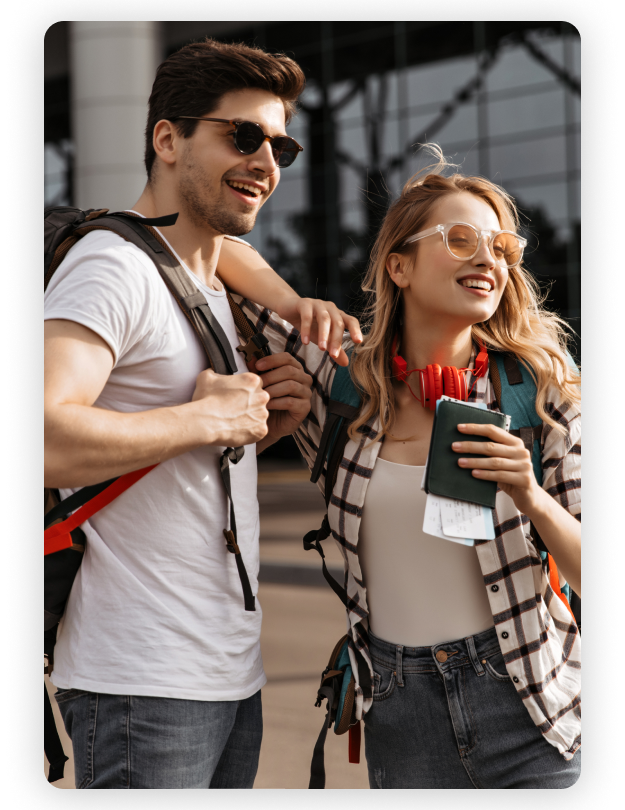
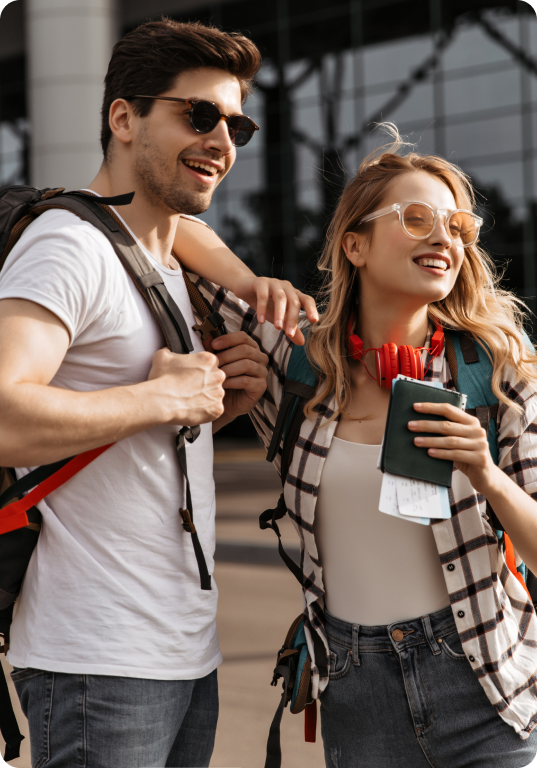
arreglo margenes howitworks

diff --git a/viajes-app/src/pages/HowItWorks.tsx b/viajes-app/src/pages/HowItWorks.tsx
@@ -10,11 +10,13 @@ const HowItWorks = () => {
   return (
     <div className="how-it-works">
       <div className="how-it-works__container">
-        <img
-          src={fotoRandom3}
-          alt="Random travel"
-          className="how-it-works__image"
-        />
+        <div className="how-it-works__image-container">
+          <img
+            src={fotoRandom3}
+            alt="Random travel"
+            className="how-it-works__image"
+          />
+        </div>
 
         <div className="how-it-works__right">
           <div className="how-it-works__badge">Como funciona</div>
@@ -24,7 +26,6 @@ const HowItWorks = () => {
           </h2>
           
           <div className="how-it-works__features">
-            {/* Orden correcto de las features */}
             <div className="how-it-works__feature">
               <div className="how-it-works__feature-icon">
                 <img src={iconUser} alt="User icon" />

diff --git a/viajes-app/src/styles/HowItWorks.css b/viajes-app/src/styles/HowItWorks.css
@@ -9,9 +9,17 @@
   padding: 0 112px;
 }
 
+.how-it-works__image-container {
+  @apply relative;
+  width: 550px;
+}
+
 .how-it-works__image {
-  @apply w-[550px] h-[800px] rounded-[20px];
+  @apply w-full h-[800px] rounded-[20px];
   object-fit: cover;
+  box-shadow: 
+    0 4px 44px rgba(0, 0, 0, 0.25),
+    0 1px 3px rgba(0, 0, 0, 0.1);
   animation: fadeIn 0.8s ease-out;
 }
 
@@ -121,6 +129,11 @@
   .how-it-works__badge {
     @apply mx-auto;
   }
+  
+  .how-it-works__image-container {
+    width: 100%;
+    max-width: 550px;
+  }
 }
 
 @media (max-width: 1024px) {
@@ -139,8 +152,8 @@
   }
   
   .how-it-works__image {
-    width: 100%;
     height: auto;
+    aspect-ratio: 550/800;
   }
   
   .how-it-works__right {
